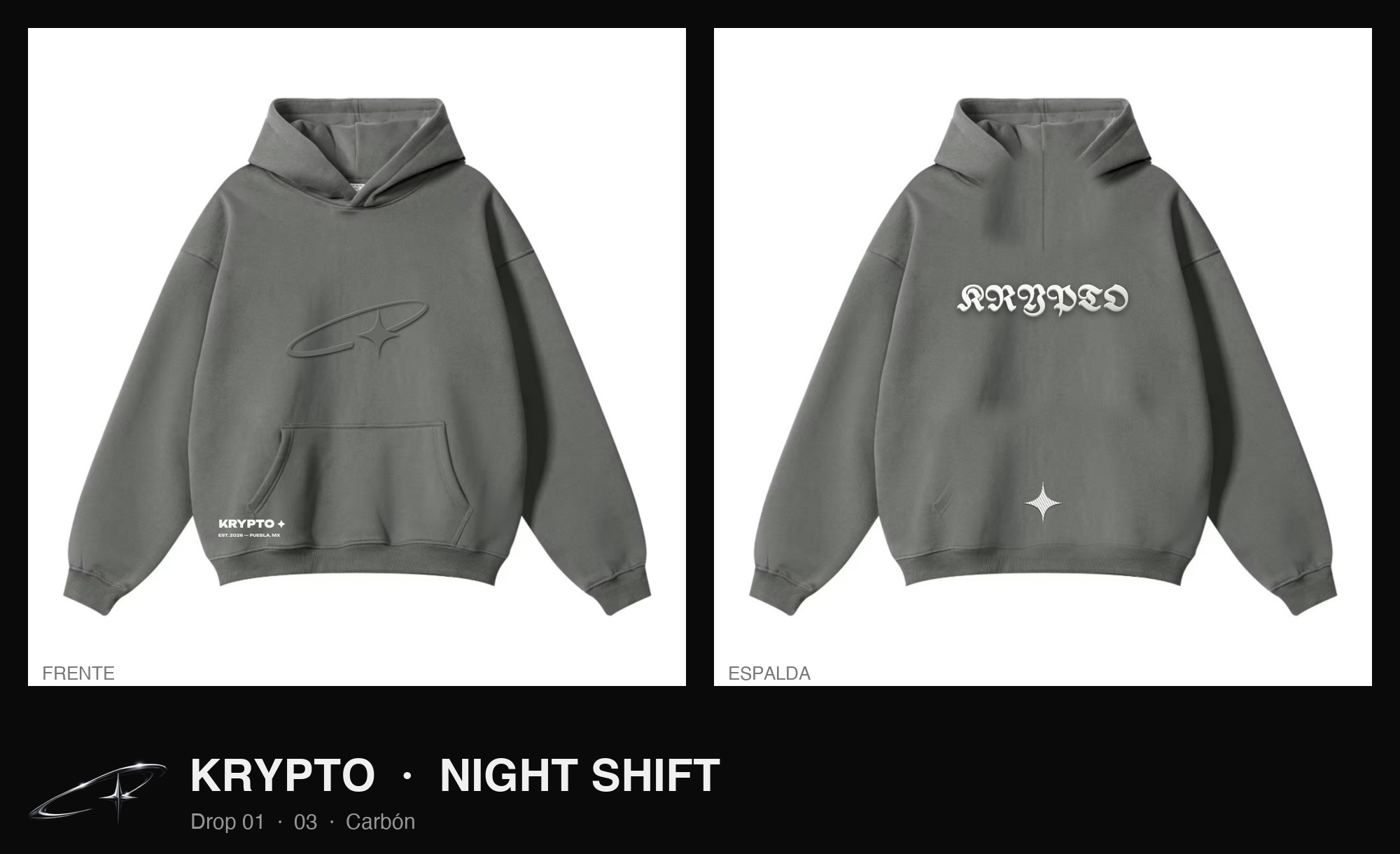
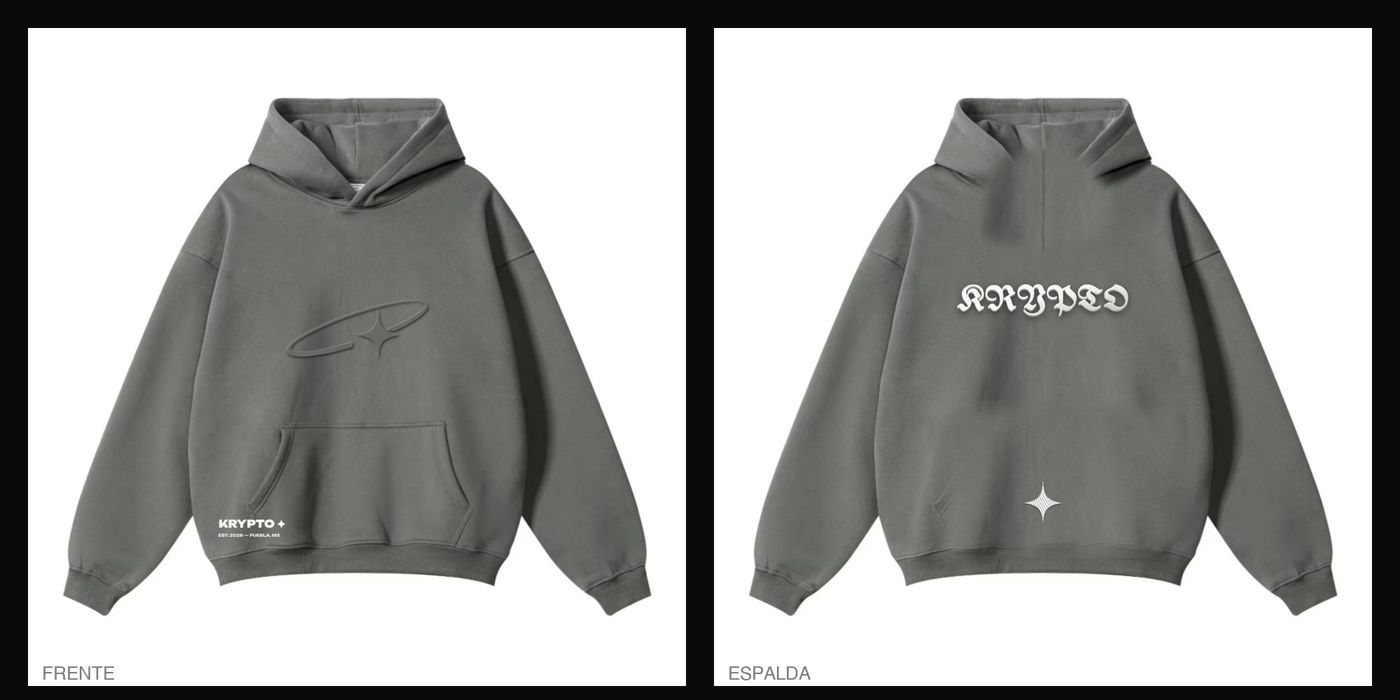
Sudaderas: arregla vista en celular y quita franja de texto en imágenes

diff --git a/sudaderas/index.html b/sudaderas/index.html
@@ -20,11 +20,11 @@
 }
 *{box-sizing:border-box}
 html{scroll-behavior:smooth}
-body{background:var(--bg);color:var(--fg);font-family:var(--body);font-size:15px;line-height:1.55;margin:0;
+body{overflow-x:hidden;background:var(--bg);color:var(--fg);font-family:var(--body);font-size:15px;line-height:1.55;margin:0;
   padding-left:max(16px,env(safe-area-inset-left,0px));padding-right:max(16px,env(safe-area-inset-right,0px))}
 .wrap{max-width:1180px;margin:0 auto}
 
-header{position:relative;display:grid;justify-items:center;text-align:center;gap:10px;padding-block:48px 24px}
+header{position:relative;overflow:hidden;display:grid;justify-items:center;text-align:center;gap:10px;padding-block:48px 24px}
 header::before{content:"";position:absolute;inset:0 -20%;background:radial-gradient(ellipse at 50% 35%,rgba(255,255,255,.08),transparent 60%);pointer-events:none}
 header img{width:min(360px,70vw);mix-blend-mode:screen;animation:float 6s ease-in-out infinite}
 @keyframes float{50%{transform:translateY(-8px) rotate(-1deg)}}
@@ -52,10 +52,10 @@ h2{font-family:var(--display);font-weight:800;font-size:clamp(22px,4vw,34px);let
 .ficha{display:grid;grid-template-columns:minmax(0,1.6fr) minmax(0,1fr);gap:20px;align-items:center;border-top:1px solid var(--line);padding-top:22px;animation:rise .6s cubic-bezier(.2,.8,.2,1) both}
 @keyframes rise{from{transform:translateY(14px)}}
 .ficha[hidden]{display:none}
-.ficha button{padding:0;border:0;background:none;cursor:zoom-in;border-radius:10px;display:block;width:100%}
-.ficha button:focus-visible{outline:2px solid var(--chrome);outline-offset:3px}
+.ficha > button{padding:0;border:0;background:none;cursor:zoom-in;border-radius:10px;display:block;width:100%}
+.ficha > button:focus-visible{outline:2px solid var(--chrome);outline-offset:3px}
 .ficha img{width:100%;border-radius:10px;display:block;transition:transform .5s}
-@media (hover:hover){.ficha button:hover img{transform:scale(1.015)}}
+@media (hover:hover){.ficha > button:hover img{transform:scale(1.015)}}
 .ficha h3{font-family:var(--display);font-weight:800;font-size:22px;margin:0 0 4px}
 .ficha .color{display:flex;align-items:center;gap:8px;font-size:11px;letter-spacing:.18em;text-transform:uppercase;color:var(--chrome)}
 .ficha dl{display:grid;grid-template-columns:auto 1fr;gap:6px 14px;margin:14px 0 12px;font-size:14px}
@@ -116,7 +116,7 @@ footer{color:var(--muted);font-size:12px;text-align:center;padding-block:30px 50
 .drawer .vacio{color:var(--muted)}
 .velo{position:fixed;inset:0;background:rgba(0,0,0,.6);z-index:24}
 @media (max-width:820px){.pasos{grid-template-columns:1fr}}
-@media (max-width:720px){.ficha{grid-template-columns:1fr}}
+@media (max-width:720px){.ficha{grid-template-columns:1fr;gap:14px;background:var(--panel);border:1px solid var(--line);border-radius:16px;padding:12px 12px 16px}.fichas{gap:18px}.ficha h3{font-size:20px}.ficha dl{font-size:13.5px}.tallas button{flex:1}.add{justify-self:stretch;text-align:center}.cartbtn{padding:11px 16px}}
 @media (prefers-reduced-motion:reduce){*{animation:none!important;transition:none!important}html{scroll-behavior:auto}}
 </style>
 
